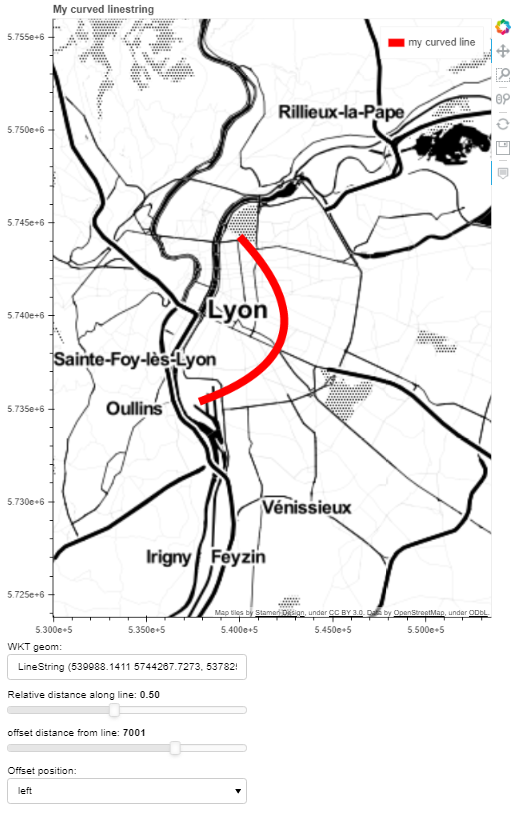
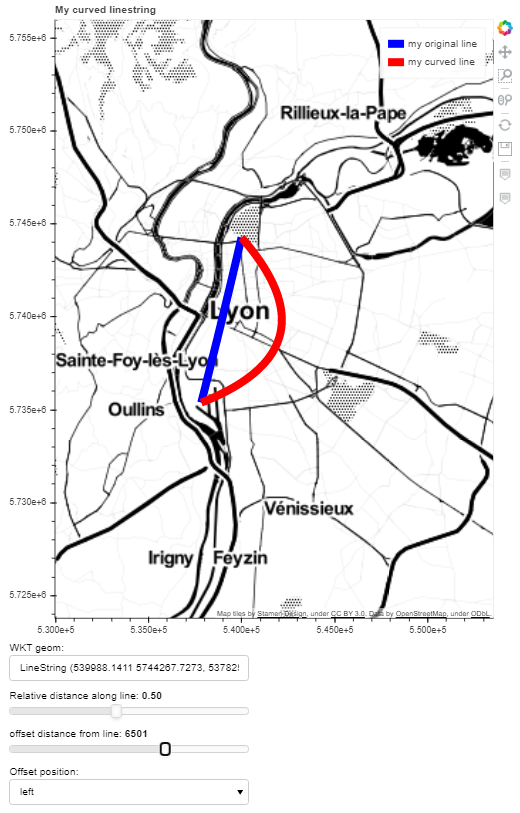
upd (*) add original line on bokeh app

diff --git a/main.py b/main.py
@@ -38,16 +38,19 @@ class MyMapBokeh(Gdf2Bokeh):
         self._inputext_widget_geom()
 
         input_data = self.__build_curve_gdf()
-        self.bokeh_layer_points_container = self.add_lines(input_data, line_color="red", line_width=10, legend="my curved line")
+        # original line
+        self.add_lines(input_data, line_color="blue", line_width=10, legend="my original line")
+        # curved line
+        self.bokeh_layer_curved_line_container = self.add_lines(input_data, line_color="red", line_width=10, legend="my curved line")
 
         self._map_layout()
 
     def _prepare_data(self):
         input_data = self.__build_curve_gdf()
-        self.bokeh_layer_points_container.data = dict(self._format_gdf_features_to_bokeh(input_data).data)
+        self.bokeh_layer_curved_line_container.data = dict(self._format_gdf_features_to_bokeh(input_data).data)
 
     def _slider_widget_distance_along_line(self):
-        self.slider_widget_distance_along_line = Slider(start=0.1, end=1, value=0.5, step=0.01, title="Relative distance along line")
+        self.slider_widget_distance_along_line = Slider(start=0.1, end=1, value=0.5, step=0.1, title="Relative distance along line")
         self.slider_widget_distance_along_line.on_change('value', self.__slider_widget_distance_along_line_update)
 
     def __slider_widget_distance_along_line_update(self, attrname, old_value, relative_distance_along_line_value):
